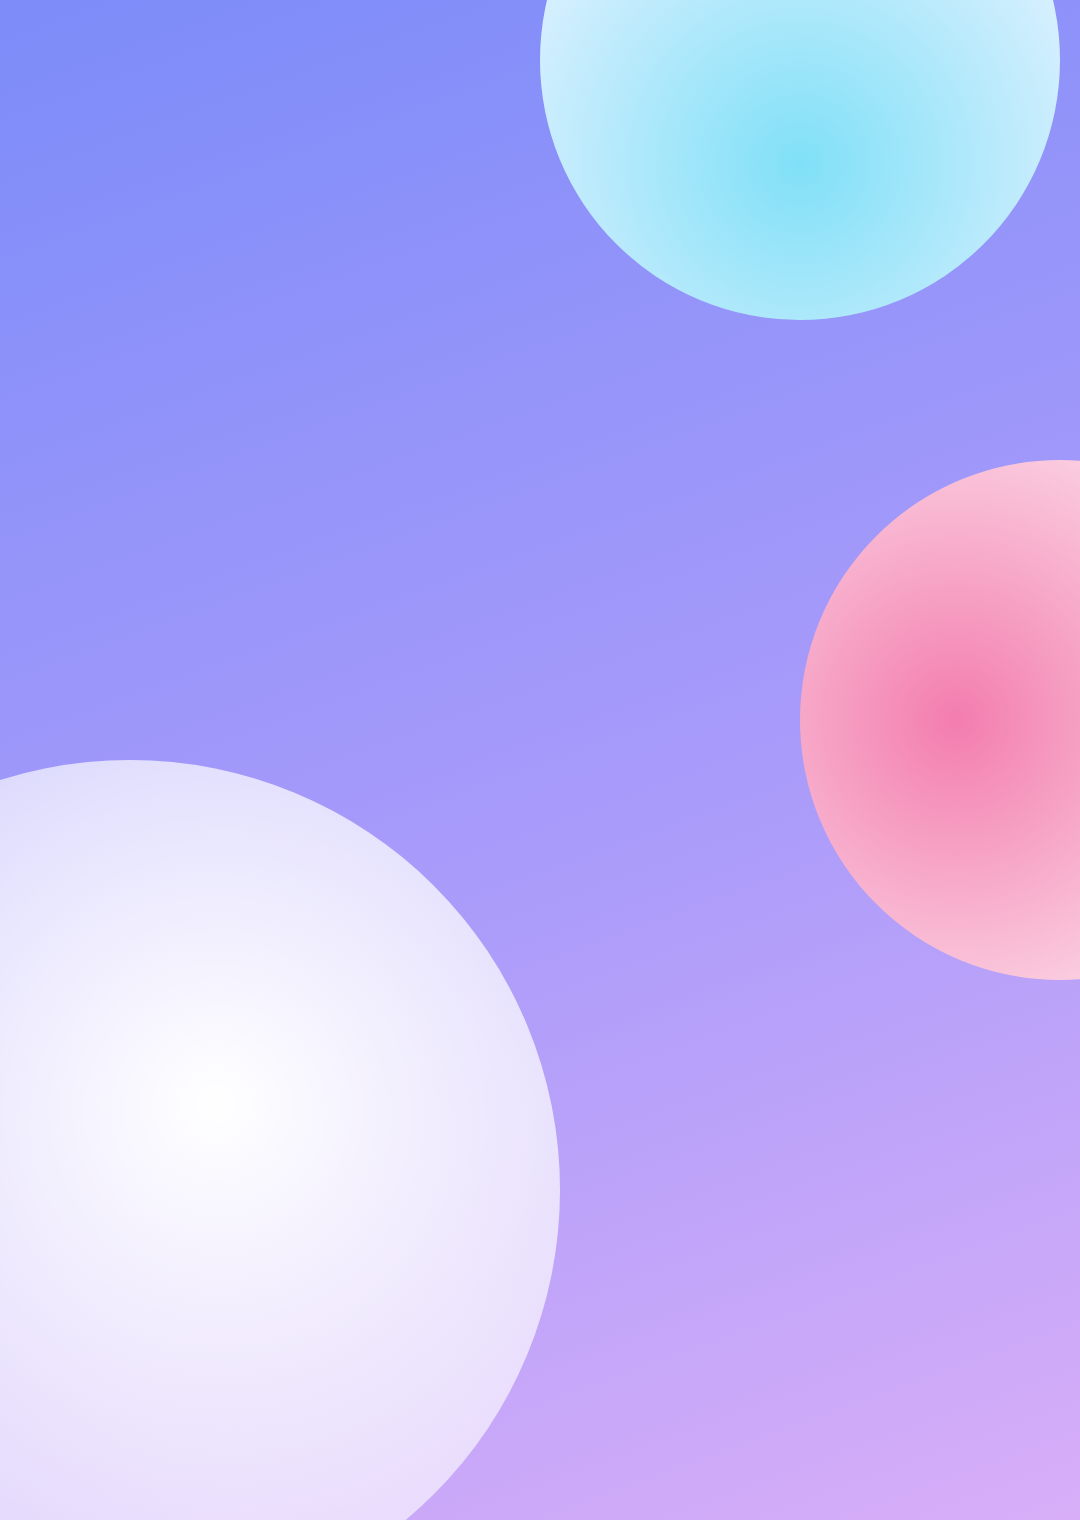
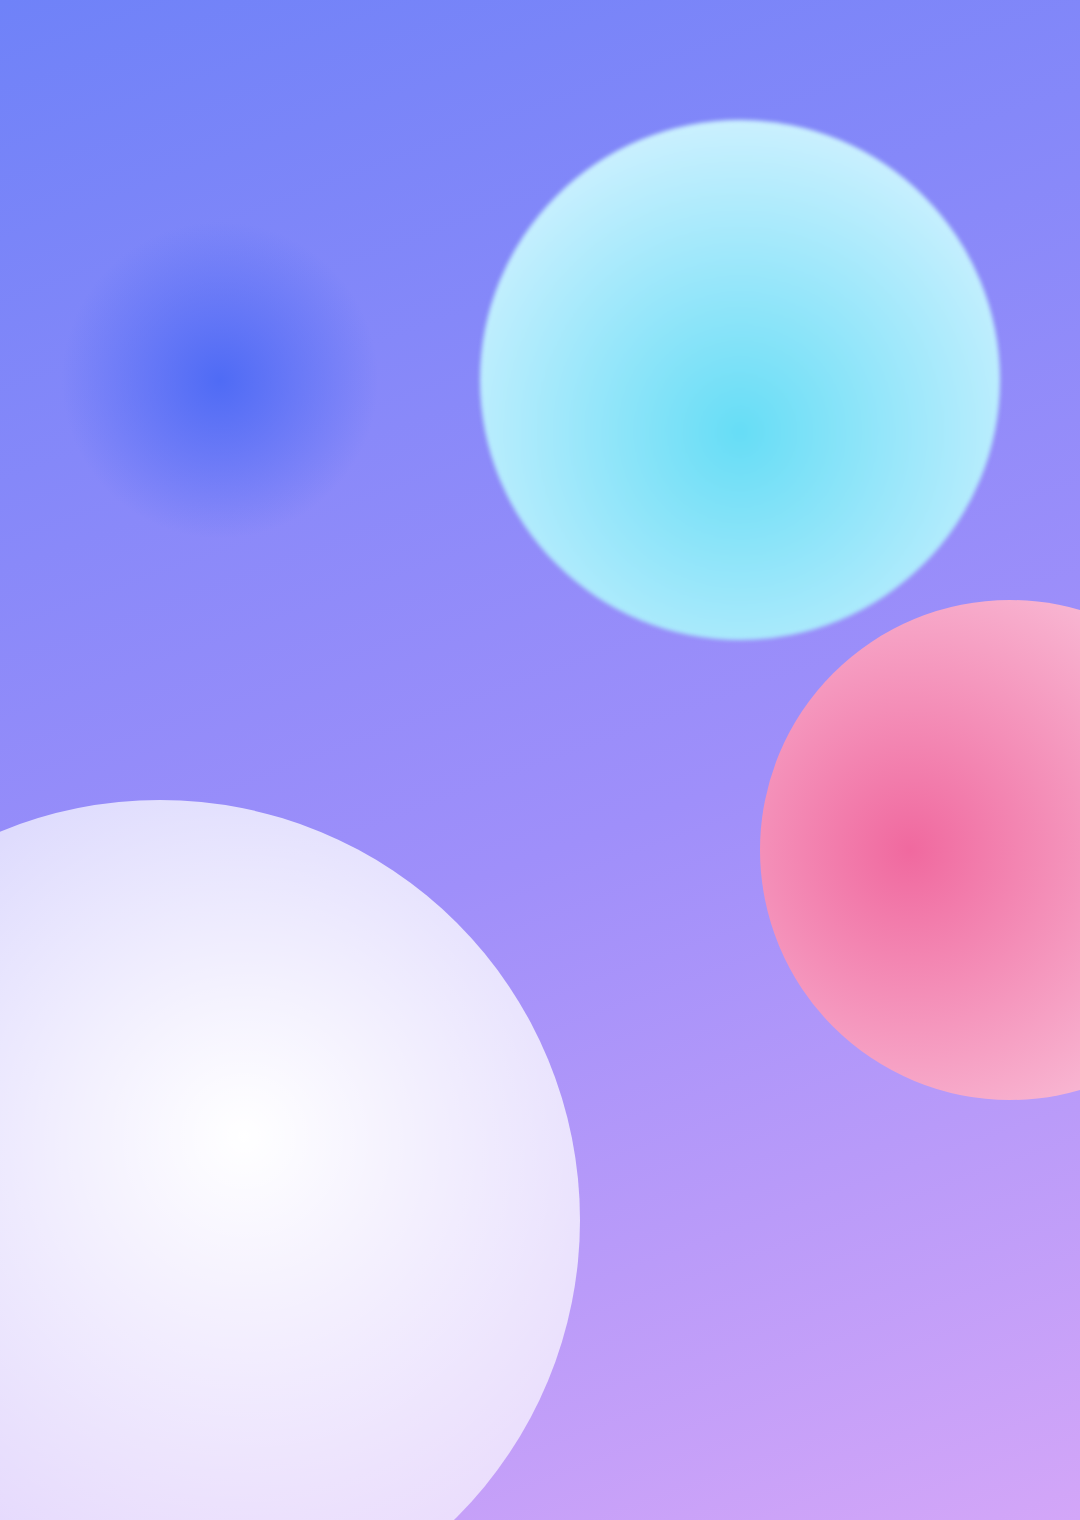
초대 메일: 유리 느낌 강화(더 투명한 판, 테두리, 원이 비침)
Claude-Session: https://claude.ai/code/session_01JJTiCzRui4qjNi8e2t3pQX

diff --git a/src/utils/adminInvite.ts b/src/utils/adminInvite.ts
@@ -274,9 +274,9 @@ export function inviteHtml(message: string, r: { email: string; name?: string },
 <tr><td style="padding:16px 36px 0;font-family:Georgia,'Times New Roman',serif;font-style:italic;font-size:44px;line-height:1.1;color:#FFFFFF;text-shadow:0 2px 14px rgba(70,60,180,0.35)">Invitation</td></tr>
 <tr><td style="height:30px;font-size:0;line-height:0">&nbsp;</td></tr>
 <tr><td style="padding:0 16px 16px">
-  <table role="presentation" width="100%" cellpadding="0" cellspacing="0" style="background-color:#D9D5FB;background-color:rgba(255,255,255,0.5);border:1px solid rgba(255,255,255,0.7);border-radius:18px">
+  <table role="presentation" width="100%" cellpadding="0" cellspacing="0" style="background-color:#C9C8FA;background-color:rgba(255,255,255,0.26);border:2px solid rgba(255,255,255,0.75);border-radius:18px;box-shadow:0 10px 30px rgba(60,50,170,0.25),inset 0 1px 0 rgba(255,255,255,0.8)">
   <tr><td style="padding:10px">
-    <table role="presentation" width="100%" cellpadding="0" cellspacing="0" style="border:1px solid rgba(255,255,255,0.8);border-radius:12px">
+    <table role="presentation" width="100%" cellpadding="0" cellspacing="0" style="border:1px solid rgba(255,255,255,0.55);border-radius:12px">
     <tr><td style="padding:34px 28px 0;font-family:Georgia,'Times New Roman',serif;font-style:italic;font-size:14px;color:#5560C8">${who ? `to. ${escHtml(r.name || '')}` : 'to. you'}</td></tr>
     <tr><td style="padding:14px 28px 0;font-size:26px;line-height:1.5;font-weight:300;color:#1F2350;letter-spacing:-.02em"><b style="color:#4338CA;font-weight:700">페이스</b>에 초대합니다</td></tr>
     <tr><td style="padding:18px 28px 0;font-size:15px;line-height:2;color:#3B4170"><div id="invite-msg">${msg}</div></td></tr>
